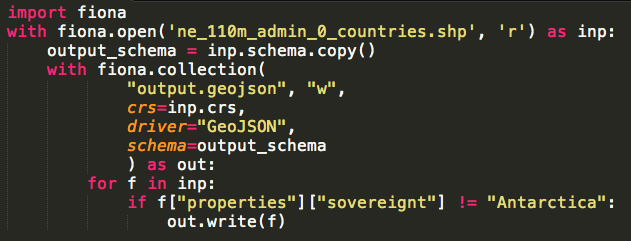
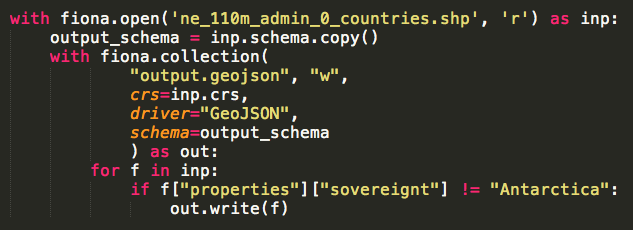
fixes, starting geojson section

Changed region(s): [[0.0, 0.0, 1.0, 0.9435]]

diff --git a/pythongeodataBFFs.html b/pythongeodataBFFs.html
@@ -104,7 +104,7 @@
   <body>
     <!-- intro -->
     <div><em>python</em> + geographic data = <em>BFFs</em></div>
-    <div><img src="http://www.fantom-xp.com/wallpapers/15/Cat_and_dog_friends.jpg"><em>why?</em></div>
+    <div><img src="http://www.fantom-xp.com/wallpapers/15/Cat_and_dog_friends.jpg"><em>why?</em><br/><br/></div>
     <div><img src="img/map1.png">I <code>&lt;3</code> maps, but making them can be a pain</div>
     <div>the <em>worst</em> part is</div>
     <div><img src="http://31.media.tumblr.com/tumblr_m4y26nYH2N1rwnp75o1_500.gif"><strong>getting data to cooperate</strong></div>
@@ -119,18 +119,25 @@
     <!-- fiona -->
     <div><em>library 1:</em><br/><a href="https://pypi.python.org/pypi/Fiona">Fiona</a><br/>convert and filter your data</div>
     <div><em>example:</em><br/> converting <a href="http://www.naturalearthdata.com/">Natural Earth</a> shapefile data to GeoJSON</div>
-    <div><img src="img/fiona1.png">1. download <a href="http://www.naturalearthdata.com/downloads/110m-cultural-vectors/">some data</a><br/>2. <img src="img/fionacode1.png"><br/>3. enjoy!</div>
-    <div><em>example:</em><br/> assembling a bunch of GPX tracks into a single GeoJSON file</div>
-    <div>1. export a bunch of GPX data from your favorite tracker<br/>2. <img src="img/fionacode2-3.png"></div>
-    <div><img src="img/fiona2.png">3. enjoy!<br/><br/><br/><br/></div>
-    <!-- pyproj -->
-    <div><em>library 2:</em><br/><a href="https://pypi.python.org/pypi/pyproj">pyproj</a><br/>reprojection tool</div>
+    <div><img src="img/fiona1.png">1. download <a href="http://www.naturalearthdata.com/downloads/110m-cultural-vectors/">some data</a><br/>2. <img src="img/fionacode1.png"></div>
+    <div><img src="img/fiona1.png">3. enjoy!<br/><br/><br/></div>
+    <div>combine with <a href="https://pypi.python.org/pypi/pyproj">pyproj</a> to change the projection</div>
     <div><img src="img/proj.png">1. <img src="img/proj1code.png"></div>
     <div><img src="img/proj.png">2. <img src="img/proj2code.png"></div>
+    <div><img src="img/proj.png">3. enjoy!<br/><br/></div>
+    <div><em>example:</em><br/> assembling a bunch of GPX tracks into a single GeoJSON file</div>
+    <div><img src="img/fiona2.png">1. export all the GPX data from your favorite tracker<br/>2. <img src="img/fionacode2-3.png"></div>
+    <div><img src="img/fiona2.png">3. enjoy!<br/><br/><br/><br/></div>
+
     <!-- shapely -->
     <div><em>library 3:</em><br/><a href="https://pypi.python.org/pypi/Shapely">Shapely</a><br/>geoprocessing tools</div>
     <div>
       <em>examples:</em>
     </div>
+    
+    <!-- GeoJSON and Python dictionaries -->
+    <div>about <a href="http://geojson.org/">GeoJSON</a>:</br></br>* like JSON, but with geo</br>* easy to use for web mapping</br>* easy to parse with Python</div>
+    <div>all you need to do is <em>get it into a dictionary</em></div>
+
   </body>
 </html>

diff --git a/geojson_example1.py b/geojson_example1.py
@@ -1,0 +1,42 @@
+import json
+
+
+INPUT_PATH = 'osmjson_example.geojson'
+OUTPUT_PATH = 'osmjson_output.geojson'
+
+json_data = open(INPUT_PATH).read()
+data = json.loads(json_data)
+
+feature_collection = {
+    'type': 'FeatureCollection',
+    'features': []
+    }
+
+for feature in data["features"]:
+    tags = feature["properties"]["tags"]
+
+    if ("building" in tags and "name" in tags):
+        osm_id = str(feature["id"])
+        name = feature["properties"]["tags"]["name"]
+        geom_type = feature["geometry"]["type"]
+        coordinates = feature["geometry"]["coordinates"]
+
+        updated_feature = {
+            'type': 'Feature',
+            'geometry': {
+                'type': geom_type,
+                'coordinates': coordinates
+                },
+            'properties': {
+                'osm_id': osm_id,
+                'name': name,
+                'tags': tags
+                }
+            }
+
+        feature_collection['features'].append(updated_feature)
+        print updated_feature
+
+with open(OUTPUT_PATH, 'w') as output:
+    output.write(json.dumps(feature_collection))
+

diff --git a/fionaexample1.py b/fionaexample1.py
@@ -1,5 +1,7 @@
 import fiona
-with fiona.open('ne_110m_admin_0_countries/ne_110m_admin_0_countries.shp', 'r') as inp:
+
+
+with fiona.open('ne_110m_admin_0_countries.shp', 'r') as inp:
     output_schema = inp.schema.copy()
     with fiona.collection(
             "output.geojson", "w",

diff --git a/fiona_proj.py b/fiona_proj.py
@@ -2,6 +2,7 @@ import fiona
 from fiona.crs import from_epsg
 from pyproj import Proj, transform
 
+
 with fiona.open('ne_110m_admin_0_countries.shp', 'r') as inp:
     
     output_schema = inp.schema.copy()

diff --git a/fionaexample2.py b/fionaexample2.py
@@ -1,5 +1,6 @@
 import os, fiona
 
+
 rootdir = 'moves_export'
 examplefile = 'moves_export/storylines_20131201_to_20131207.gpx'
 in_crs = ''
